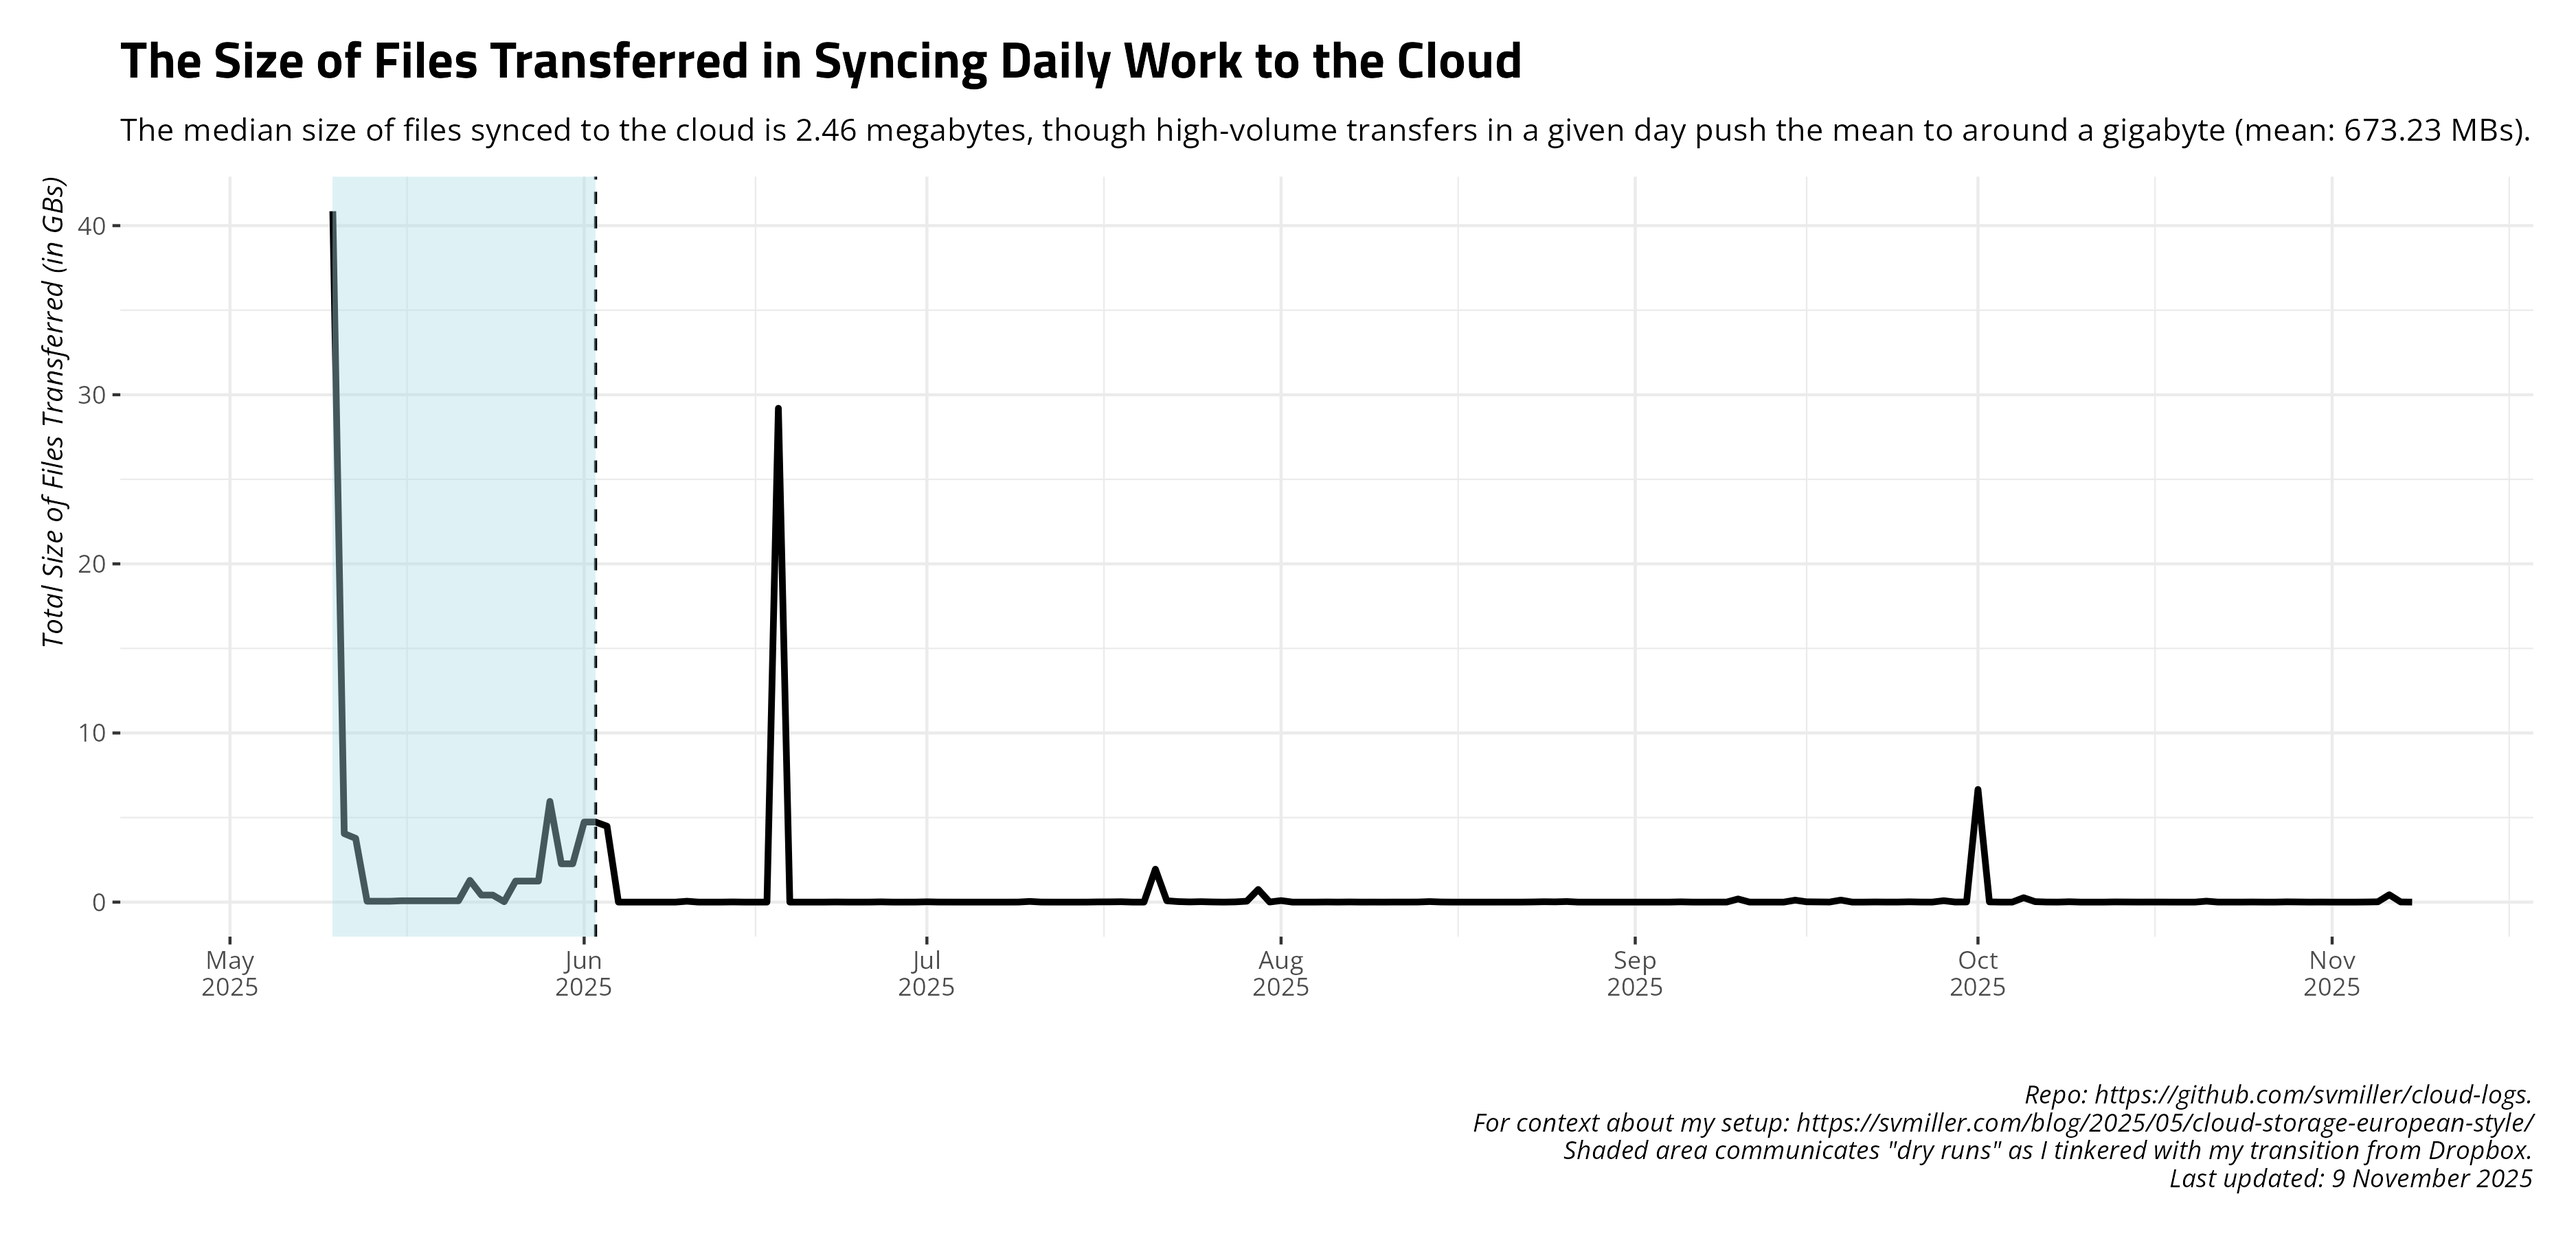
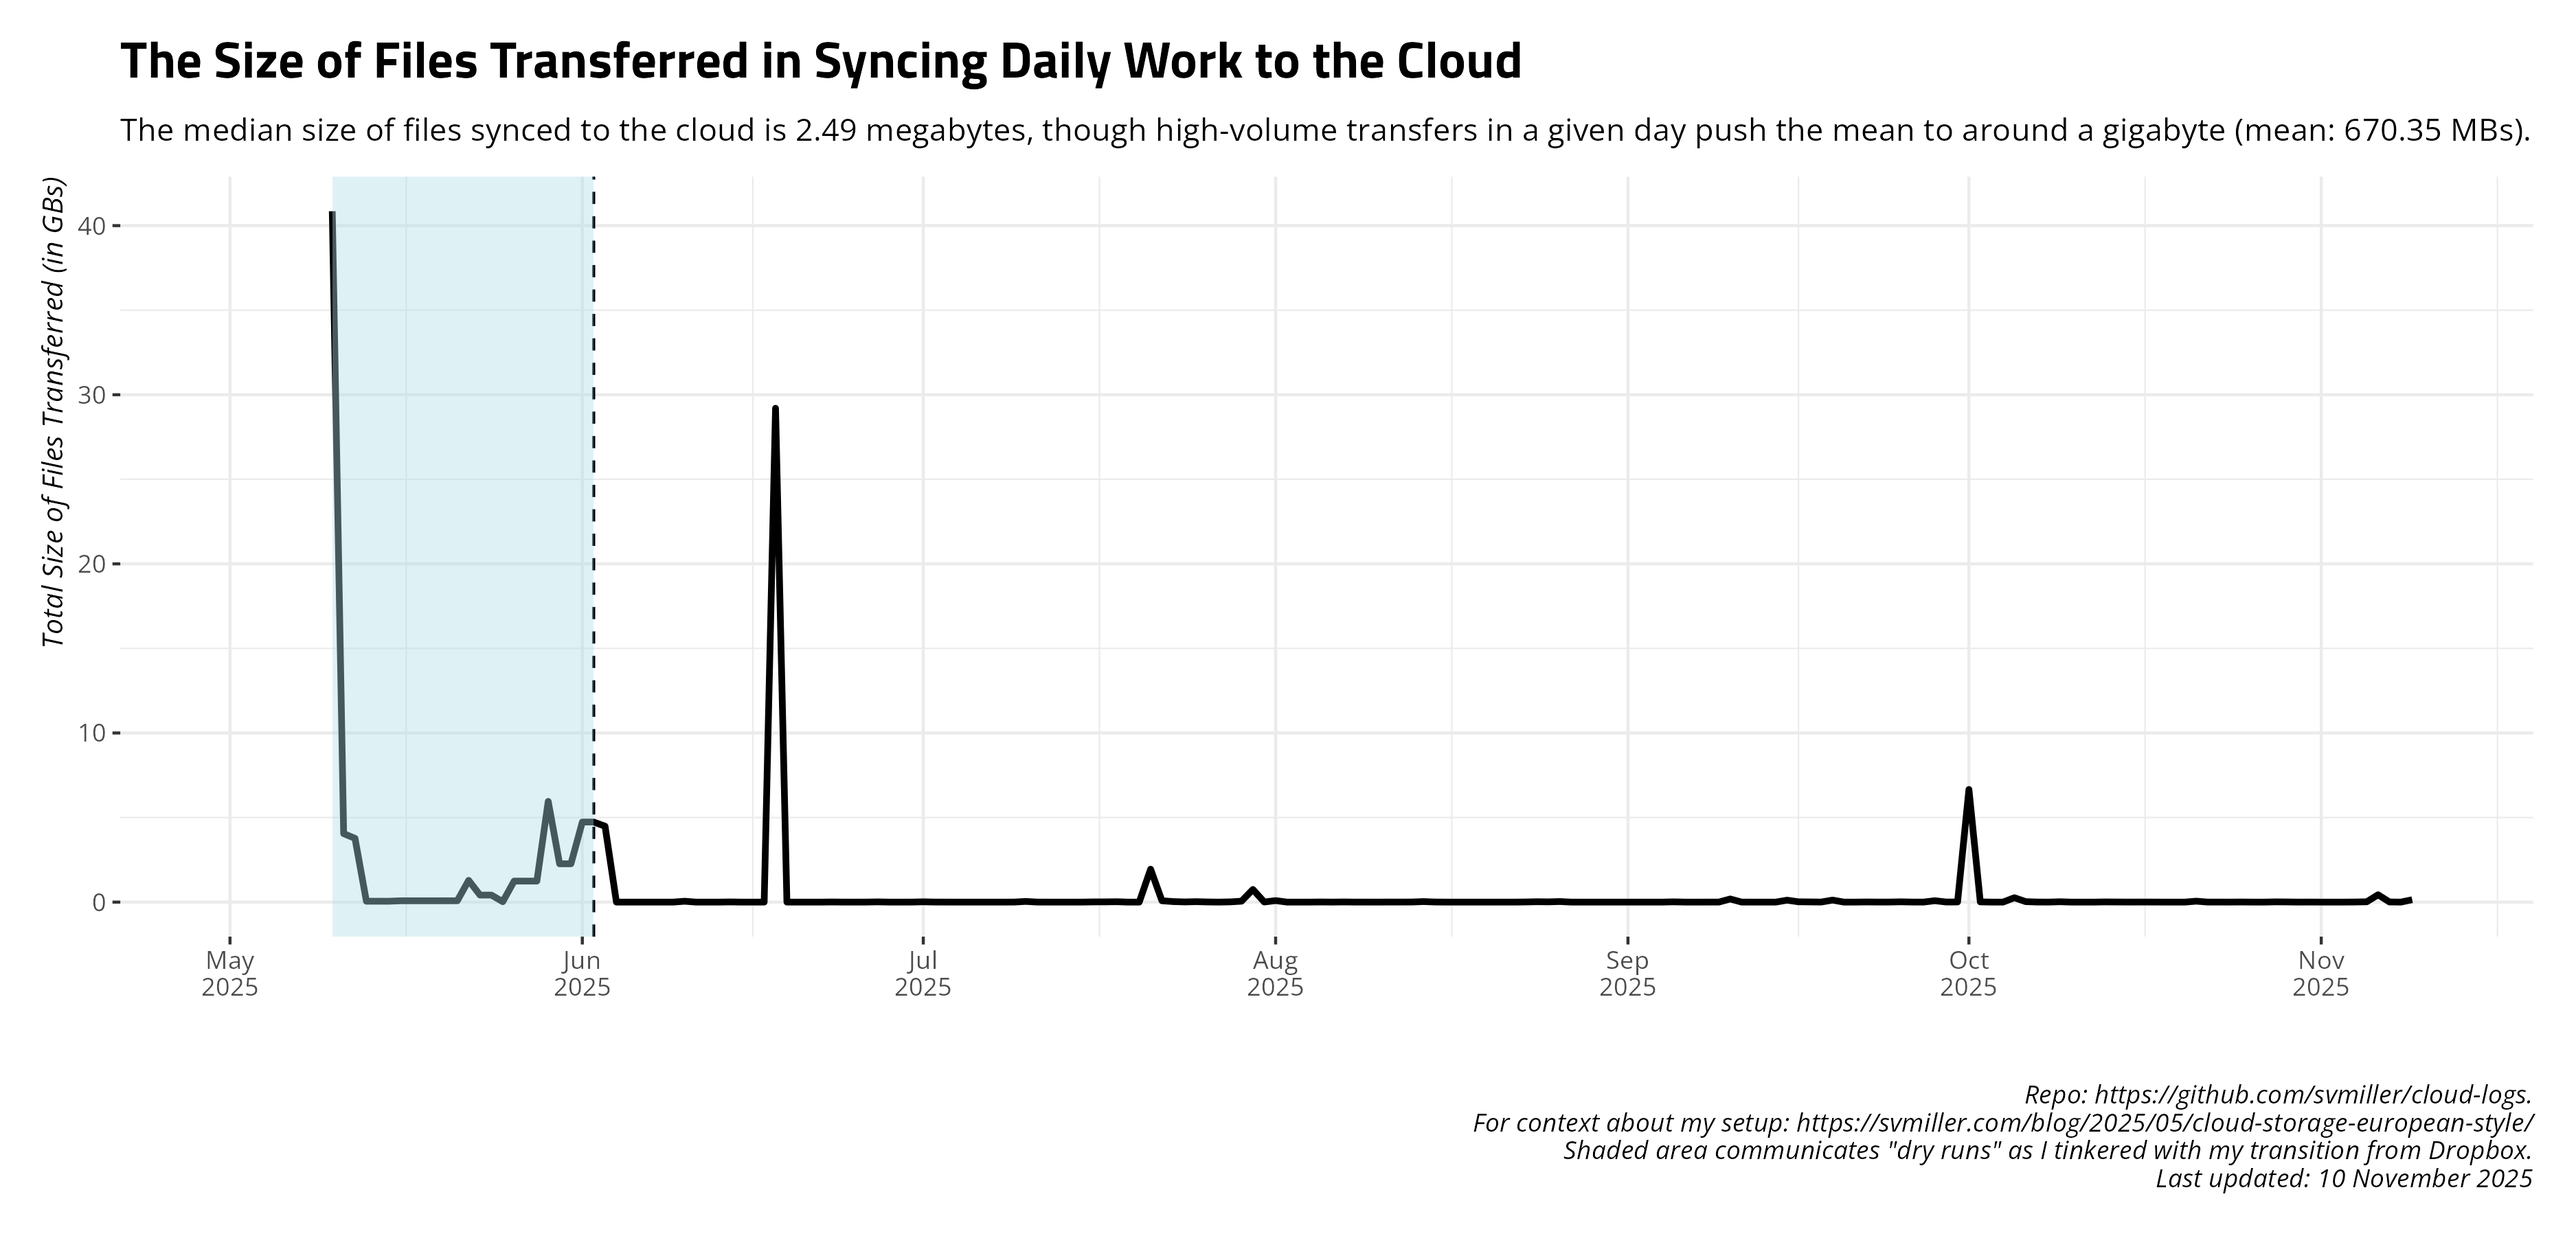
Date: 2025-11-10 09:00:16. Hi mom!

diff --git a/README.md b/README.md
@@ -27,17 +27,17 @@ and uploads to Github.
     #> # A tibble: 14 × 4
     #>    date       ftransfer stransfer   elapsed
     #>    <date>         <dbl> <chr>       <chr>  
-    #>  1 2025-10-26        42 393.283 KiB 4m0.4s 
-    #>  2 2025-10-27        24 143.556 KiB 4m39.8s
-    #>  3 2025-10-28       251 13.888 MiB  4m11.7s
-    #>  4 2025-10-29       111 8.451 MiB   4m24.0s
-    #>  5 2025-10-30        43 515.287 KiB 4m33.3s
-    #>  6 2025-10-31       126 3.302 MiB   4m16.2s
-    #>  7 2025-11-01        14 30.743 KiB  4m51.2s
-    #>  8 2025-11-02        13 58.646 KiB  4m46.9s
-    #>  9 2025-11-03         2 7.941 KiB   4m58.0s
-    #> 10 2025-11-04         4 5.939 MiB   4m54.7s
-    #> 11 2025-11-05         3 17.768 MiB  4m38.5s
-    #> 12 2025-11-06        43 444.626 MiB 4m49.4s
-    #> 13 2025-11-07        71 8.049 MiB   5m11.1s
-    #> 14 2025-11-08         0 <NA>        4m52.9s
+    #>  1 2025-10-27        24 143.556 KiB 4m39.8s
+    #>  2 2025-10-28       251 13.888 MiB  4m11.7s
+    #>  3 2025-10-29       111 8.451 MiB   4m24.0s
+    #>  4 2025-10-30        43 515.287 KiB 4m33.3s
+    #>  5 2025-10-31       126 3.302 MiB   4m16.2s
+    #>  6 2025-11-01        14 30.743 KiB  4m51.2s
+    #>  7 2025-11-02        13 58.646 KiB  4m46.9s
+    #>  8 2025-11-03         2 7.941 KiB   4m58.0s
+    #>  9 2025-11-04         4 5.939 MiB   4m54.7s
+    #> 10 2025-11-05         3 17.768 MiB  4m38.5s
+    #> 11 2025-11-06        43 444.626 MiB 4m49.4s
+    #> 12 2025-11-07        71 8.049 MiB   5m11.1s
+    #> 13 2025-11-08         0 <NA>        4m52.9s
+    #> 14 2025-11-09      1714 143.133 MiB 5m4.7s
